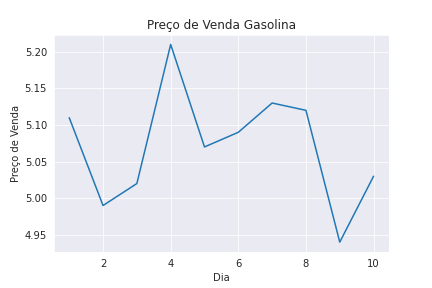
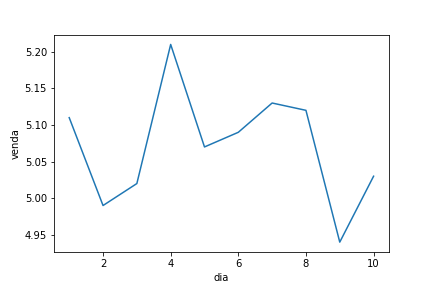
arquivos gasolina.csv gasolina.png gasolina.py alterado em develop

diff --git a/gasolina.py b/gasolina.py
@@ -1,14 +1,7 @@
-import pandas as pd
-import seaborn as sns
-
-gasolina_df = pd.read_csv('/content/EBAC/gasolina.csv', sep=',')
-
-gasolina_df.head()
-
-with sns.axes_style('darkgrid'):
-  grafico = sns.lineplot(x='dia', y='venda', data=gasolina_df, palette='pastel')
-  grafico.set(title='Preço de Venda Gasolina', xlabel='Dia', ylabel='Preço de Venda')
-
-fig = grafico.get_figure()
-
-fig.savefig('gasolina.png')
+import seaborn as sns 
+import pandas 
+import matplotlib.pyplot as plt
+data = pandas.read_csv("gasolina.csv") 
+data.head()
+sns.lineplot( data['dia'], data['venda'])
+plt.savefig('gasolina.png')
